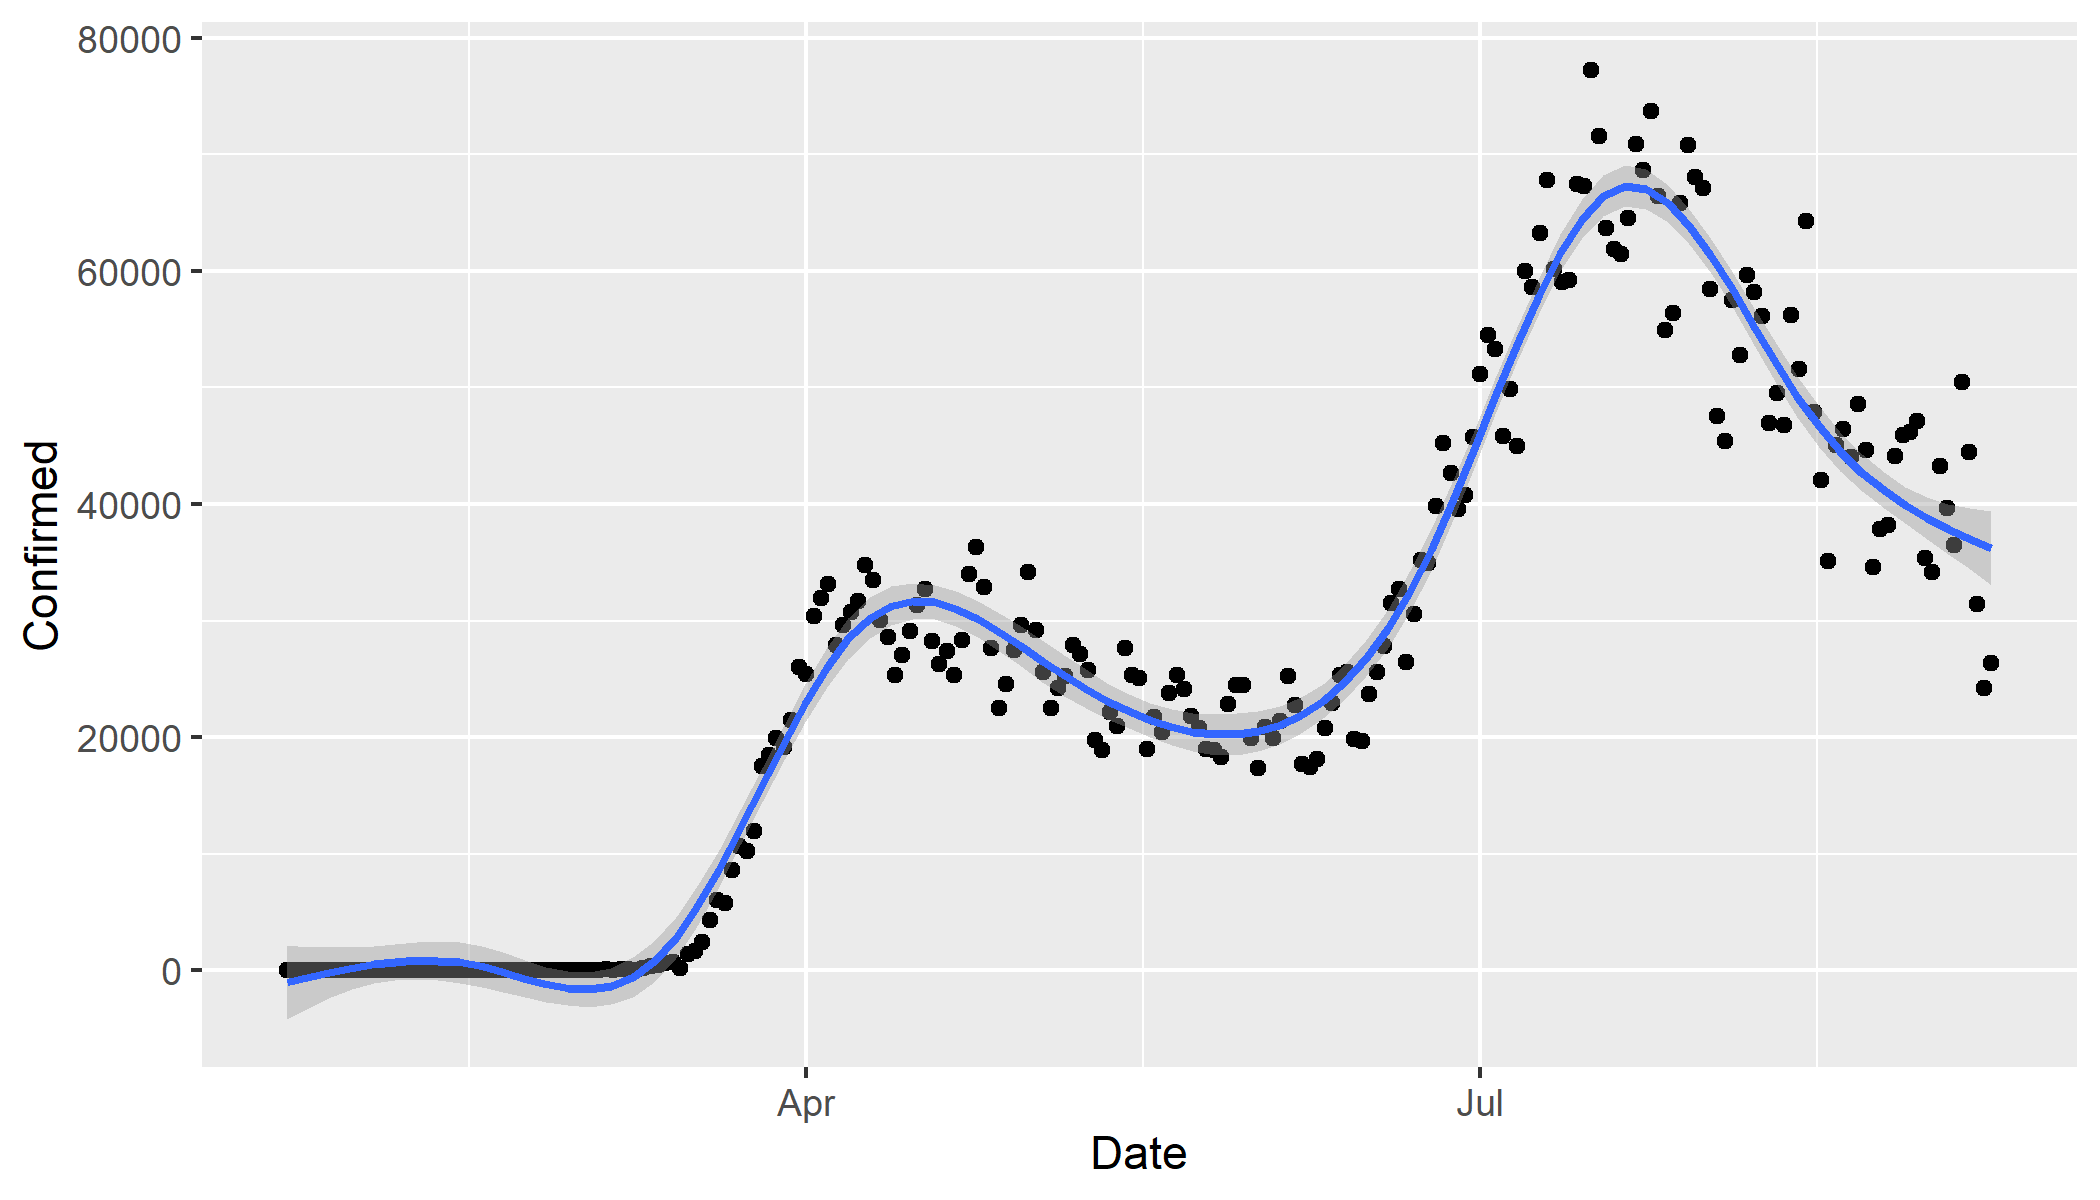
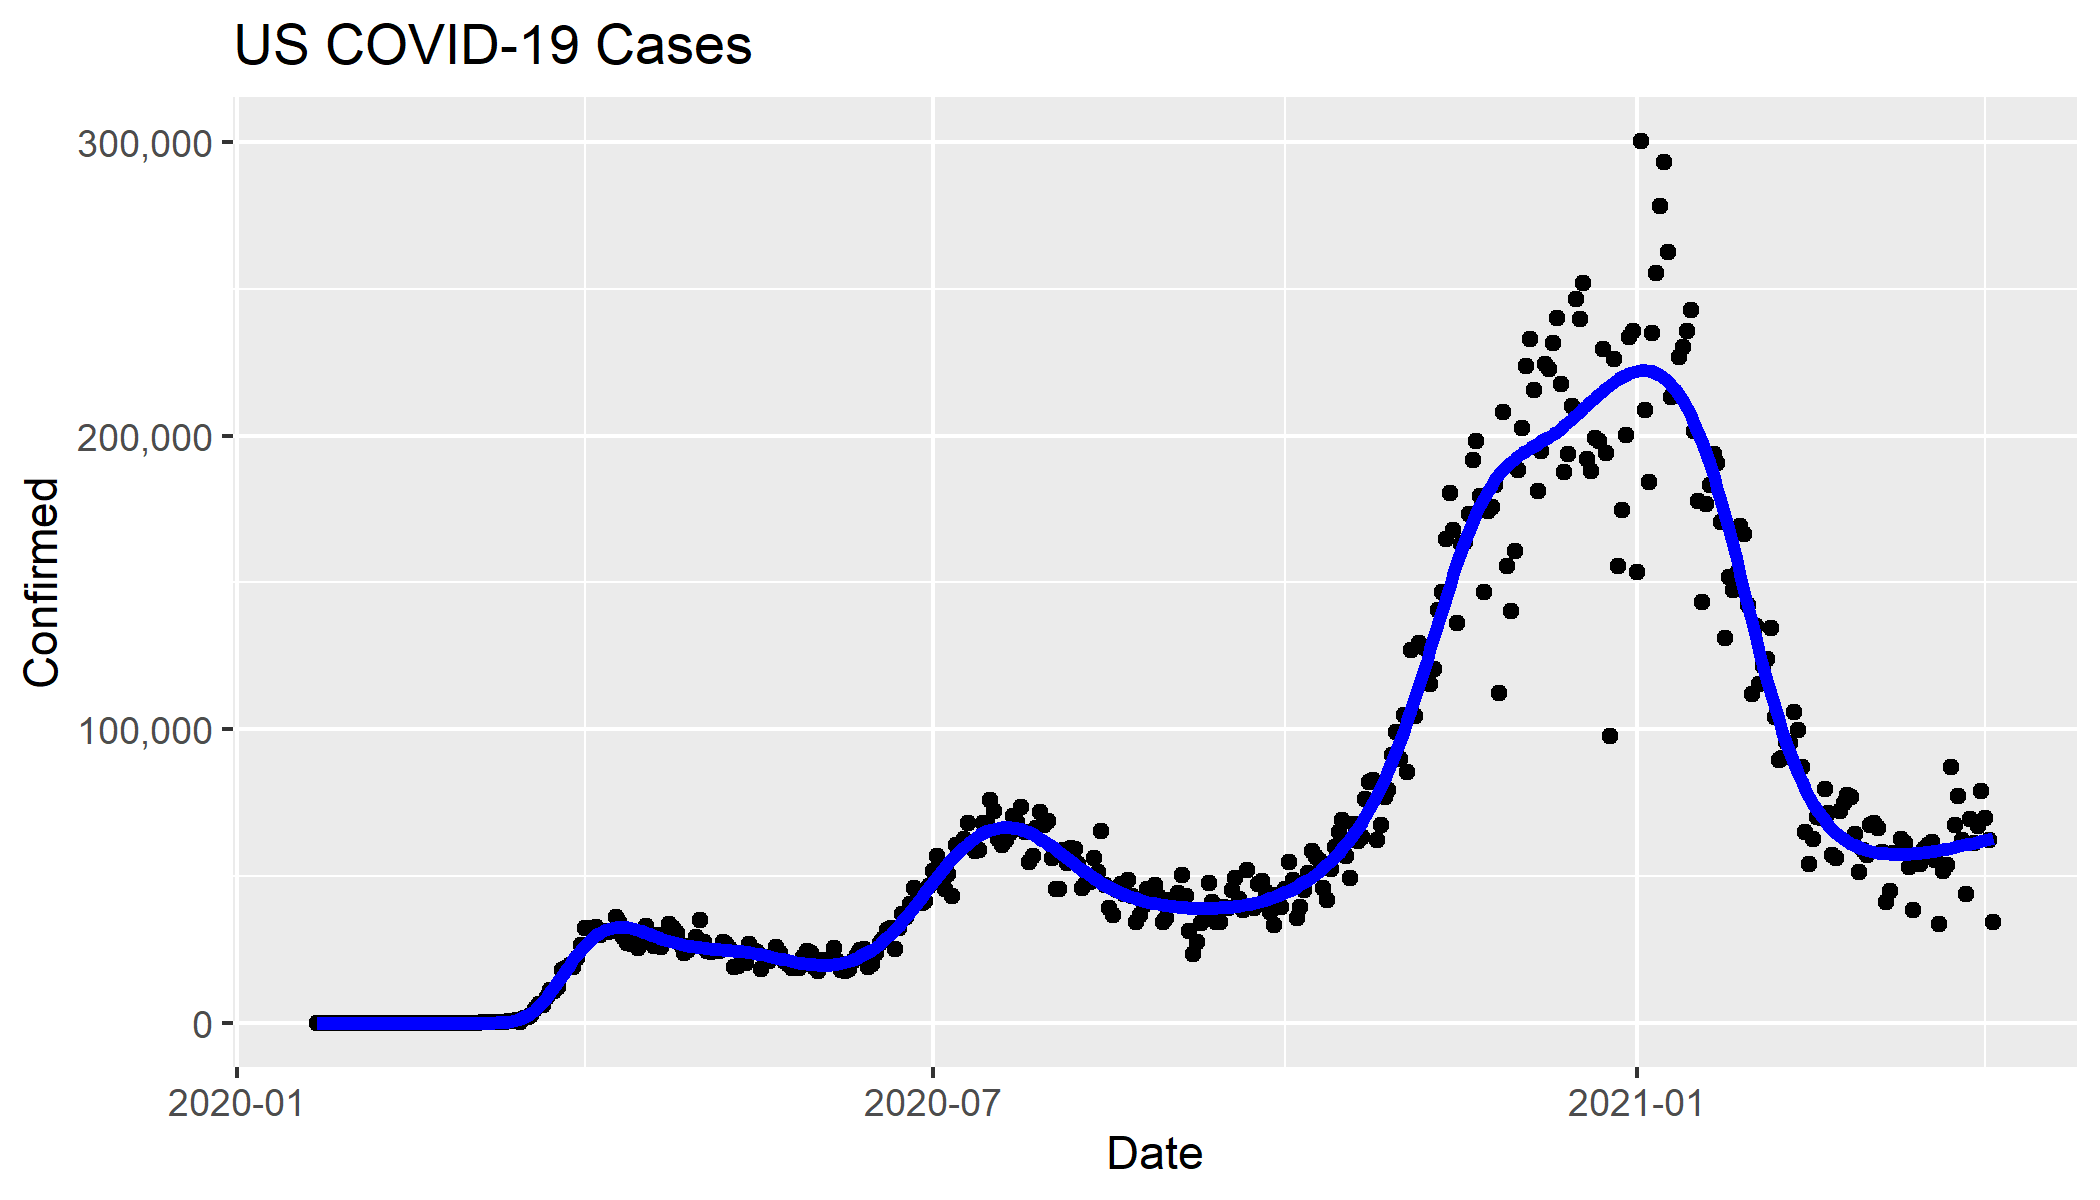
added plotting functions, updated README example

diff --git a/README.md b/README.md
@@ -1,11 +1,14 @@
 # rawcoviddata
+
 simple R package to read data from publicly available covid data repositories
 
 # installation, using devtools()
+
 devtools::install_github("lmullany/rawcoviddata")
 
 # example usage in R
-```r
+
+``` r
 #load the package
 library(rawcoviddata)
 
@@ -19,16 +22,20 @@ usafactsdata()
 us_empirical_by_level("csse")
 us_empirical_by_level("usafacts")
 ```
-# notes:
-* Only csse or usafacts, as of July 18th, 2020
-* When creating list of us/state/county level data using "usafacts", territorial data will be pulled by default from csse
 
-# example plot generation (knots placed every 10 days)
-```r
-library(ggplot2)
+# notes:
+
+-   Only csse or usafacts, as of July 18th, 2020
+-   When creating list of us/state/county level data using "usafacts", territorial data will be pulled by default from csse
+
+# example plot generation (knots placed every 21 days)
+
+``` r
 library(rawcoviddata)
 us <- cssedataglobal()[`Country/Region`=="US"]
-knots <- round(length(us$Confirmed)/10,0)
-ggplot(us, aes(Date,Confirmed)) + geom_point() + geom_smooth(method="gam", formula=y~s(x,bs="cs",k=knots))
+plot_covid(us) + 
+  ggplot2::ggtitle("US COVID-19 Cases") + 
+  ggplot2::scale_y_continuous(labels=scales::comma)
 ```
+
 ![us_cases](example_plot.png)
